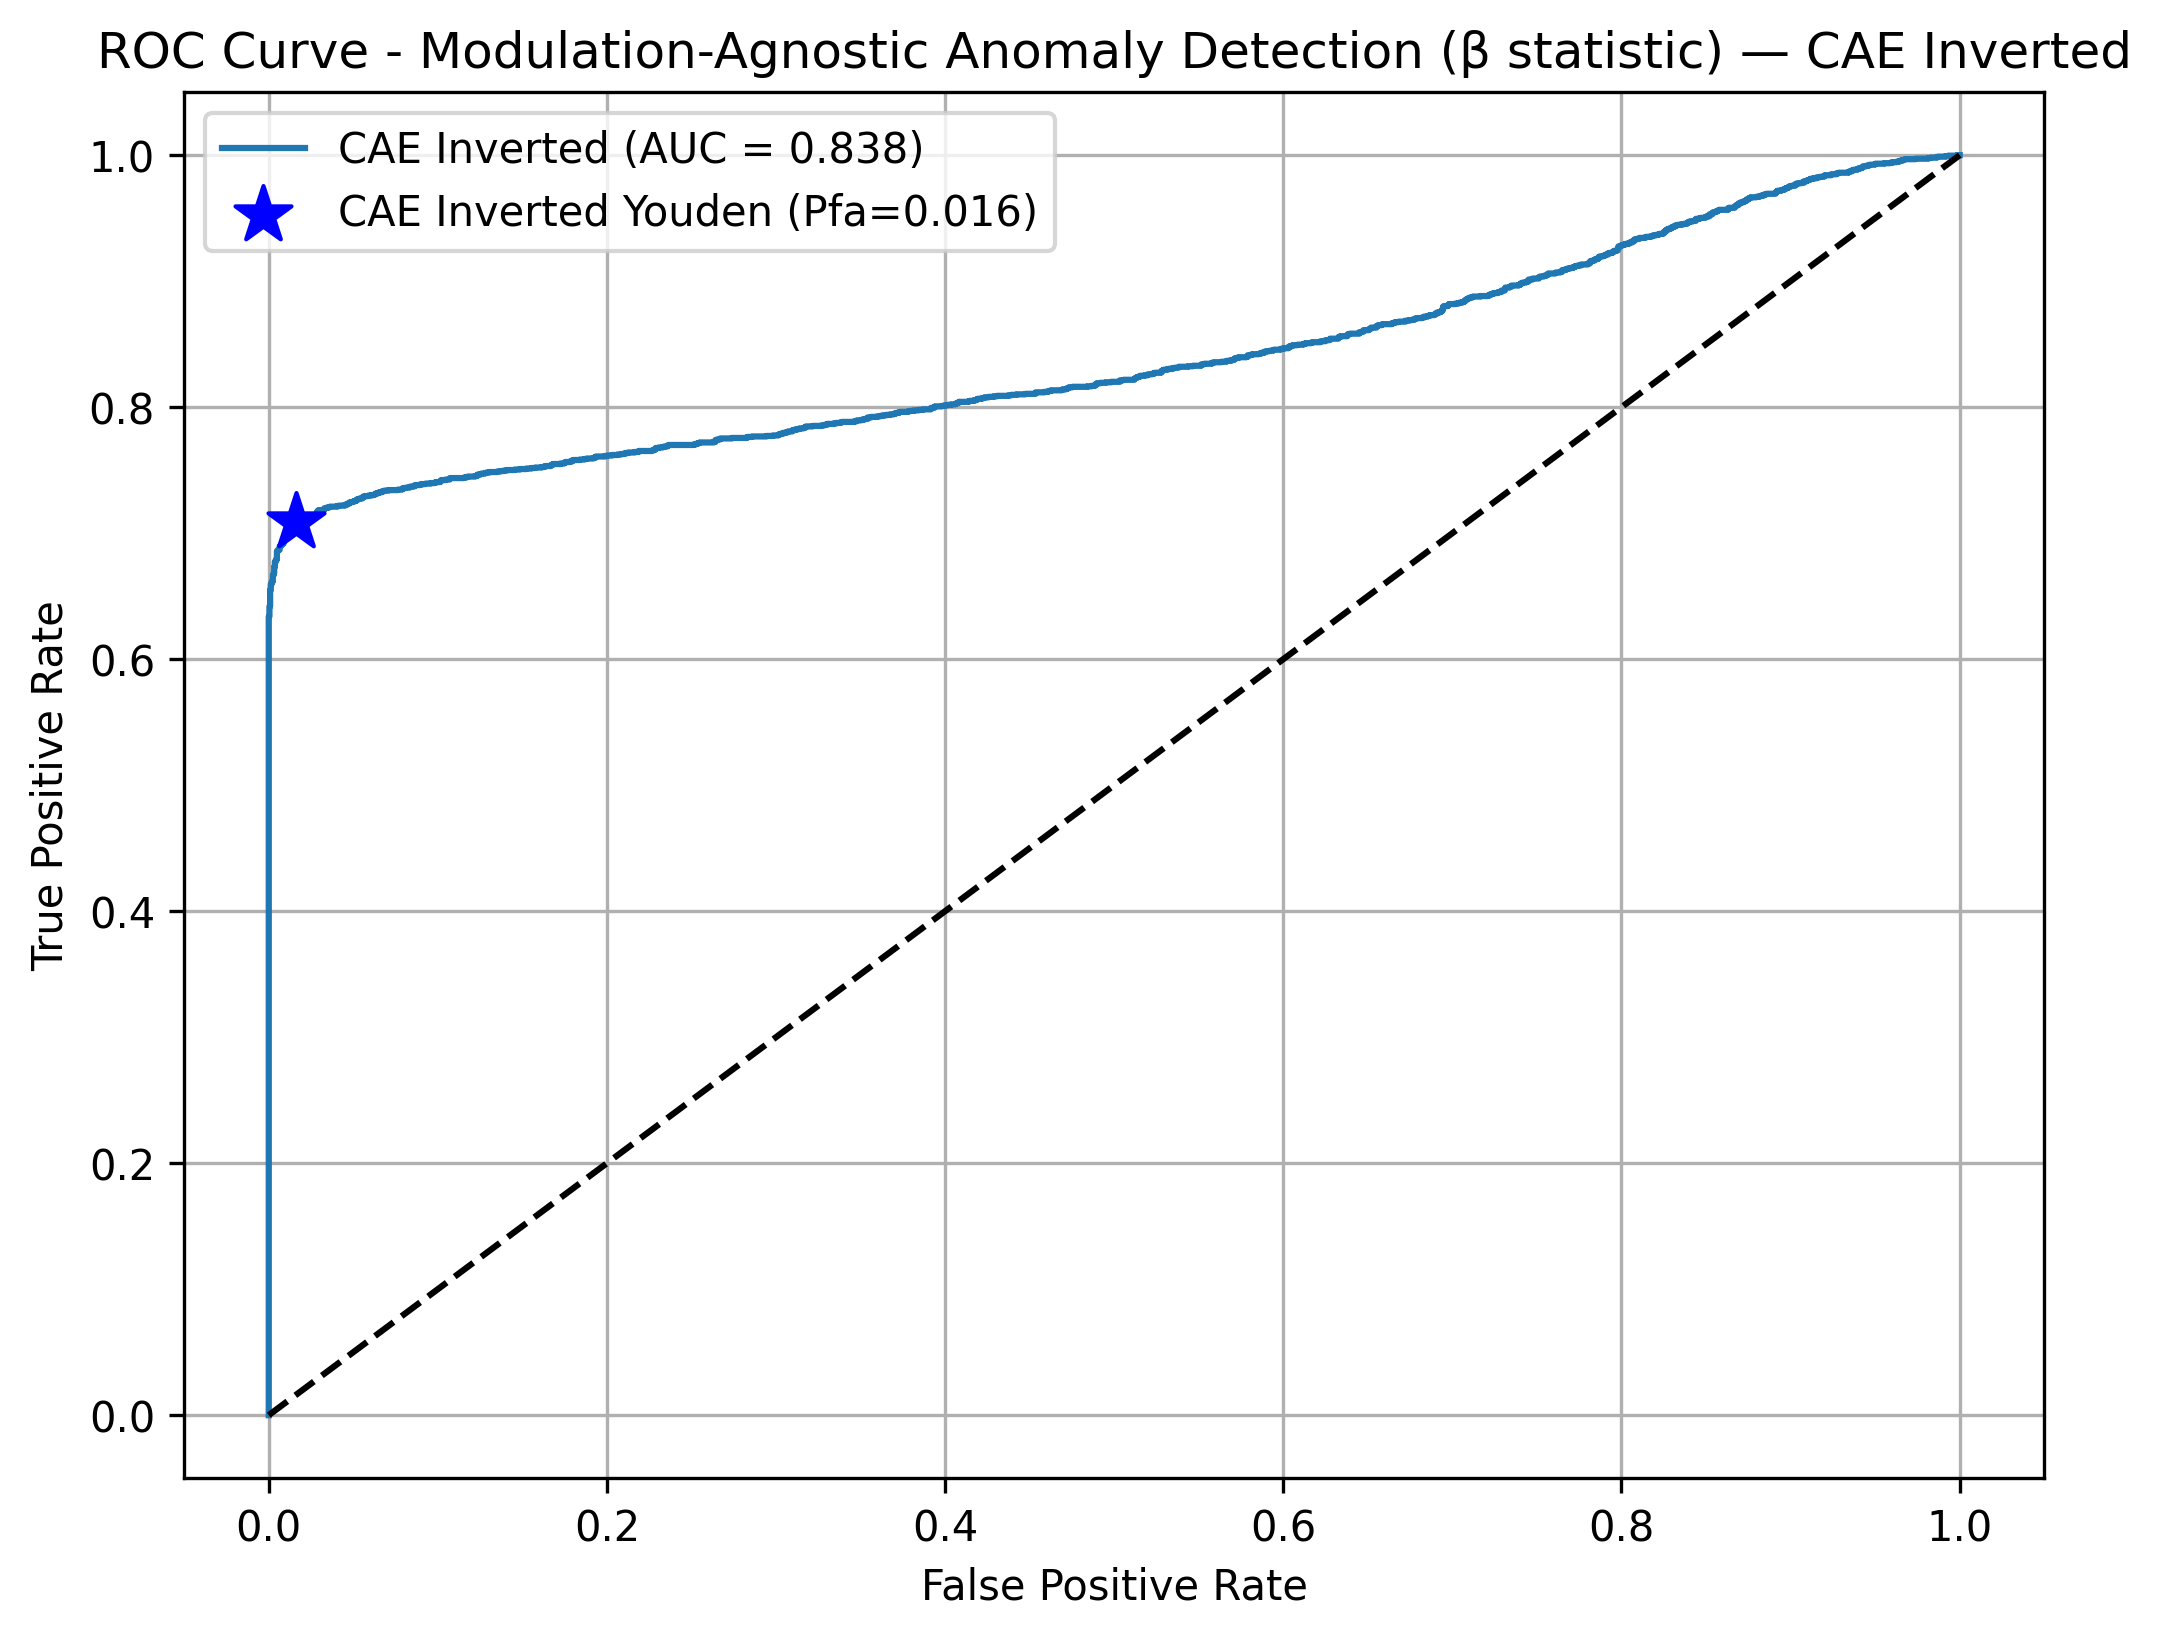
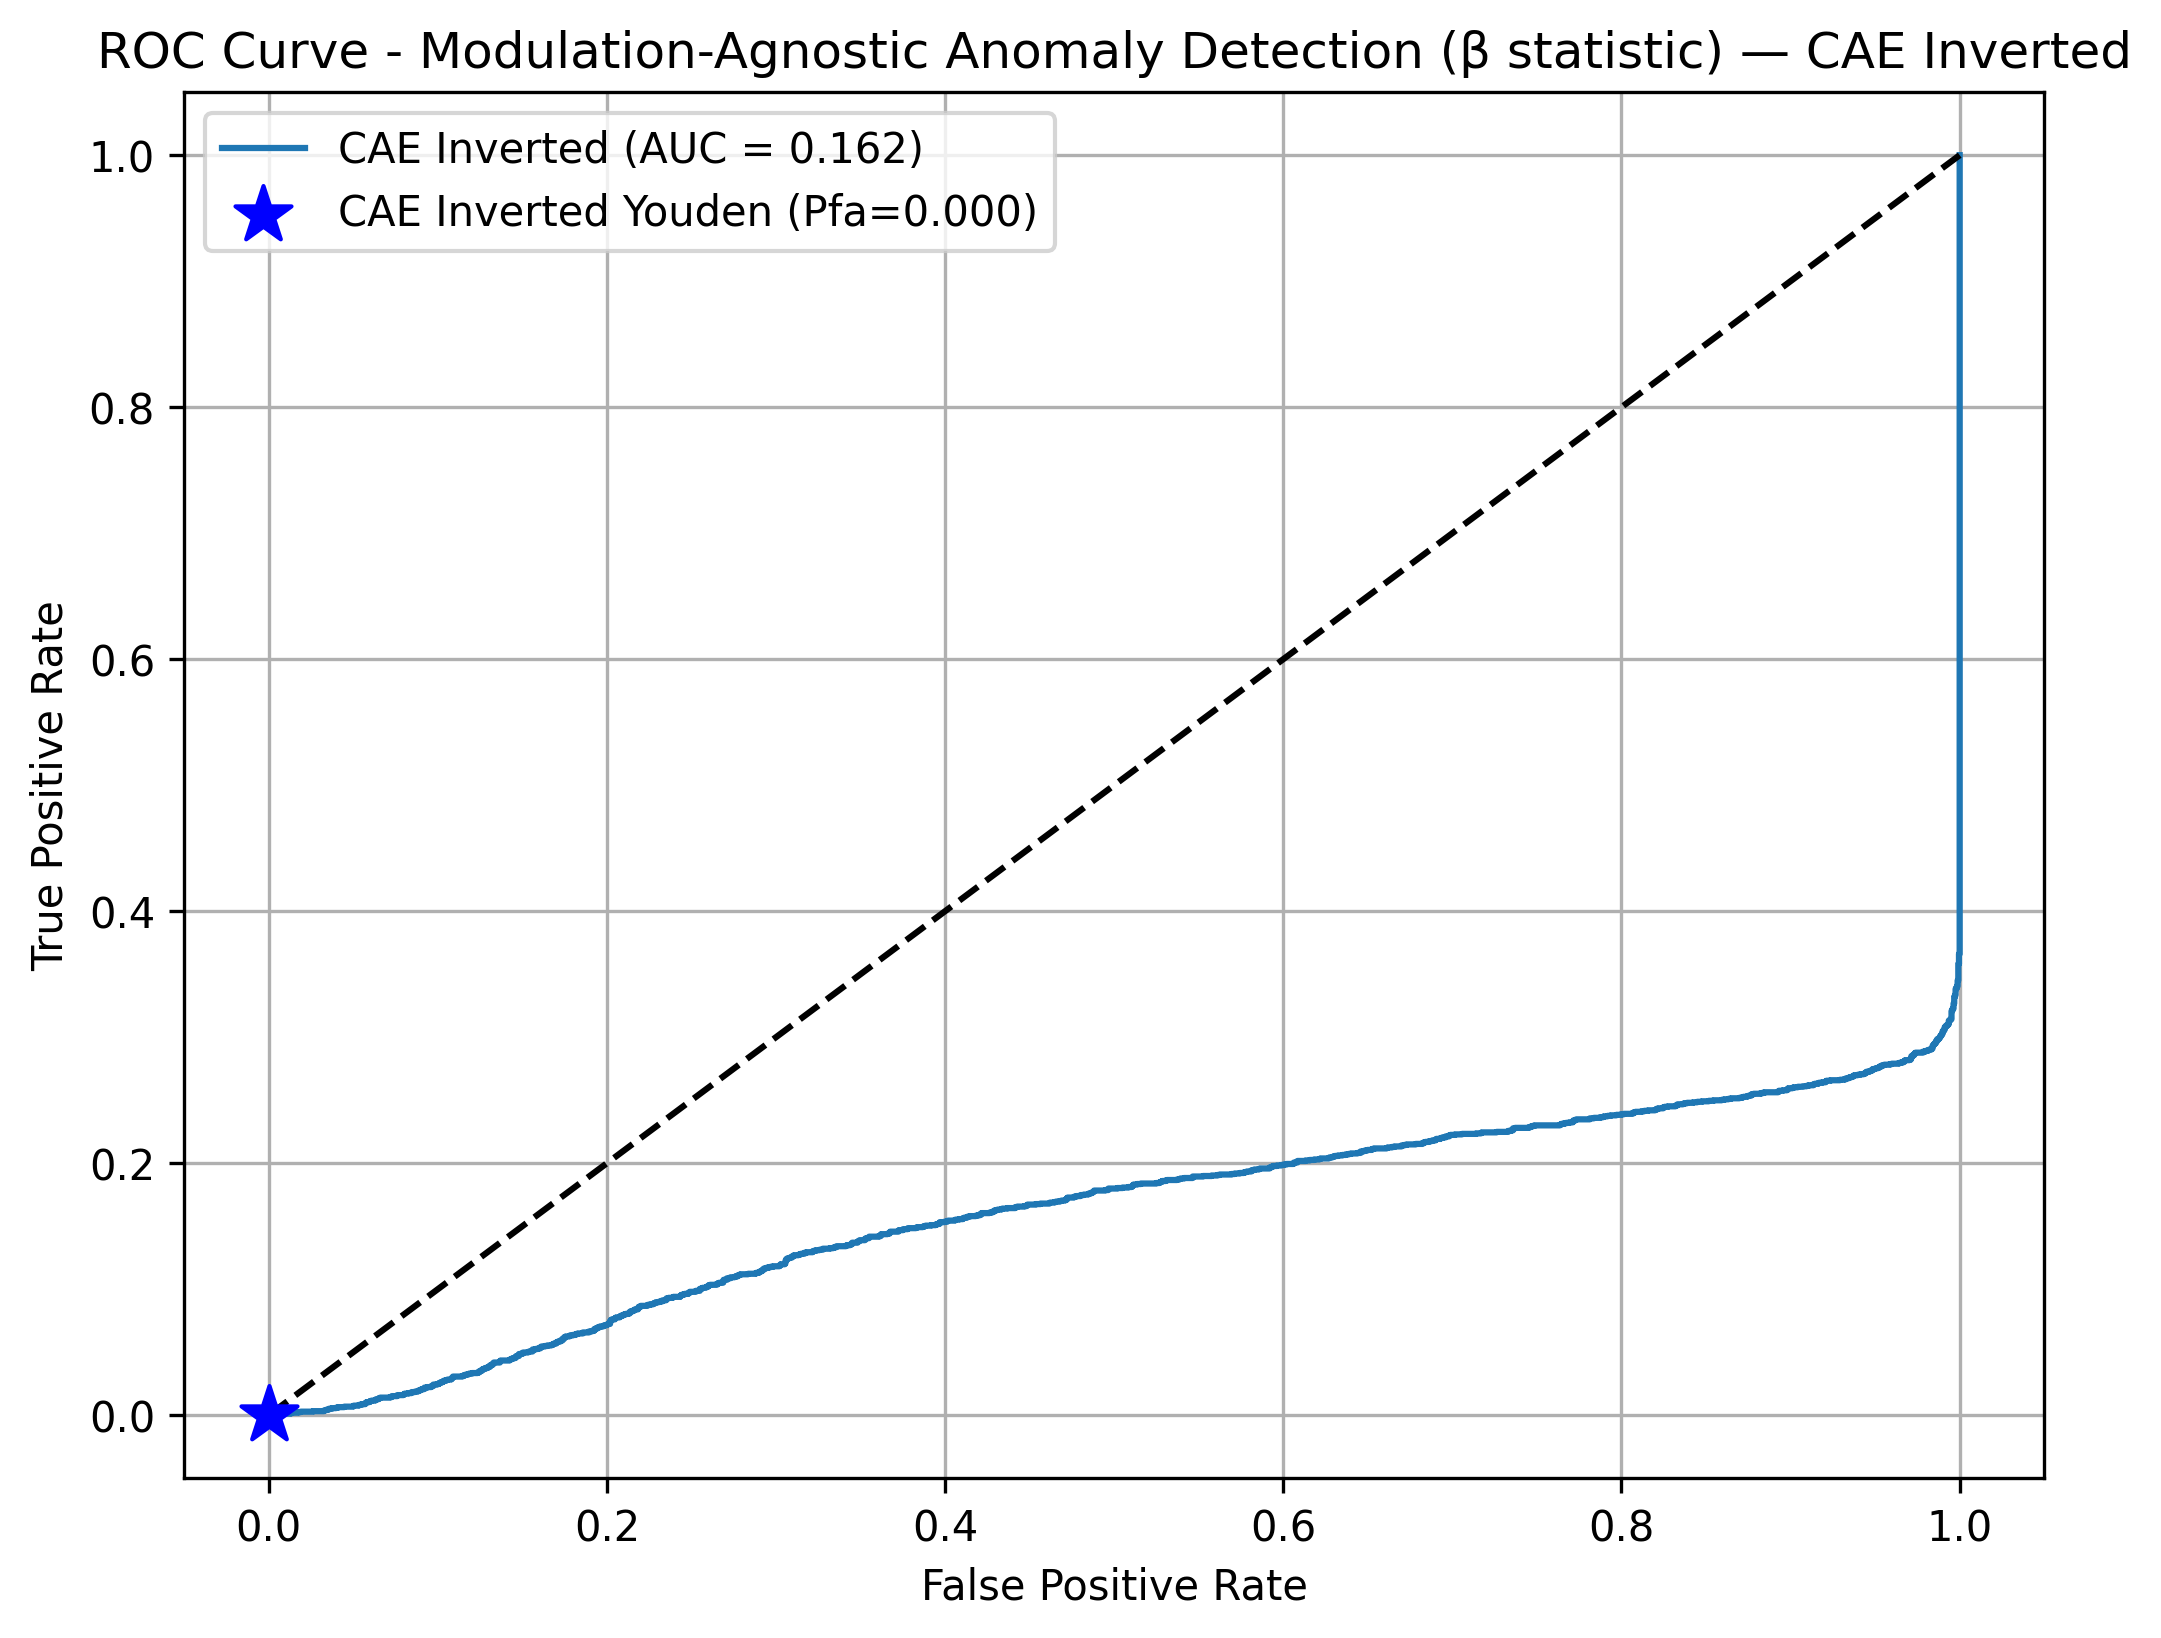
took of normalization of low capacity

diff --git a/cae_spectrum.py b/cae_spectrum.py
@@ -82,13 +82,15 @@ if __name__ == "__main__":
 
     # Load training noise (shape: [N, 2, 1024] — take channel 0 as 1-channel input)
     train_noise = torch.load("spectrum_data/train_noise.pt", weights_only=False)
-    # Paper uses 1-channel input of 1024 values — use I channel only
     train_noise = train_noise[:, 0:1, :]   # (N, 1, 1024)
 
-    # Normalize to [0, 1] for sigmoid output (paper uses raw amplitude values)
-    min_val = train_noise.min()
-    max_val = train_noise.max()
-    train_noise = (train_noise - min_val) / (max_val - min_val + 1e-8)
+    # === PAPER REPRODUCTION: REMOVE NORMALIZATION ===
+    # We disable normalization to keep raw amplitude/power information
+   
+    print("⚠  NO NORMALIZATION — using raw amplitudes (paper reproduction mode)")
+    # min_val = train_noise.min()          # commented out
+    # max_val = train_noise.max()
+    # train_noise = (train_noise - min_val) / (max_val - min_val + 1e-8)
 
     # Split: 90% train, 10% validation (mirrors paper's 450k/50k split ratio)
     n_val   = int(0.1 * len(train_noise))
@@ -141,7 +143,7 @@ if __name__ == "__main__":
         # Save best model (early stopping criterion from paper)
         if val_loss < best_val_loss:
             best_val_loss = val_loss
-            torch.save(model.state_dict(), "spectrum_data/cae_best.pth")
+            torch.save(model.state_dict(), "spectrum_data/cae_best_raw.pth")
 
     print(f"\n✅ Training complete in {time.time()-start:.1f}s")
     print(f"   Best val loss: {best_val_loss:.6f}")

diff --git a/spectrum_data/evaluate_anomalies_inverted_cae.py b/spectrum_data/evaluate_anomalies_inverted_cae.py
@@ -21,17 +21,18 @@ test_labels = test_dict["labels"].numpy()
 test_snr = test_dict["snrs"].numpy()
 test_mods = np.array(test_dict["signals"])
 
-# CAE expects (N, 1, 1024) — use I channel only, then normalize to [0,1]
+# CAE expects (N, 1, 1024) — use I channel only
 test_data = test_data_raw[:, 0:1, :]      # (N, 1, 1024)
 
-train_noise_raw = torch.load("spectrum_data/train_noise.pt", weights_only=False)  # plain tensor
+train_noise_raw = torch.load("spectrum_data/train_noise.pt", weights_only=False)
 train_noise = train_noise_raw[:, 0:1, :]  # (N, 1, 1024)
 
-# Normalize using train statistics (must match training preprocessing)
-min_val = train_noise.min()
-max_val = train_noise.max()
-train_noise = (train_noise - min_val) / (max_val - min_val + 1e-8)
-test_data   = (test_data   - min_val) / (max_val - min_val + 1e-8)
+# === PAPER REPRODUCTION: REMOVE NORMALIZATION ===
+print("⚠  NO NORMALIZATION — using raw amplitudes")
+# min_val = train_noise.min()          # commented out
+# max_val = train_noise.max()
+# train_noise = (train_noise - min_val) / (max_val - min_val + 1e-8)
+# test_data   = (test_data   - min_val) / (max_val - min_val + 1e-8)
 
 # ====================== LOAD MODEL ======================
 model_cae = CAE().to(device)
